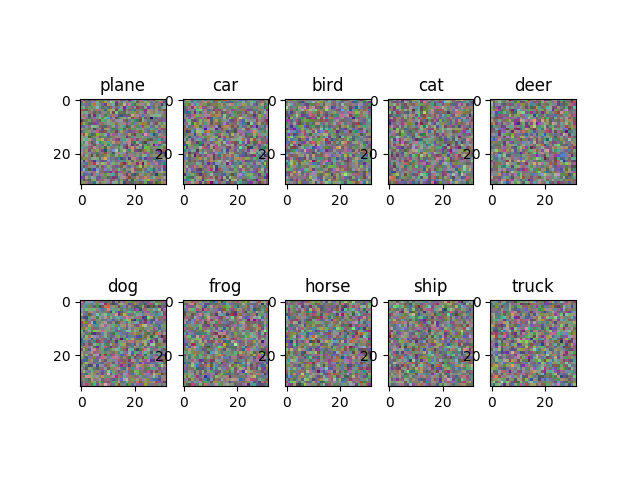
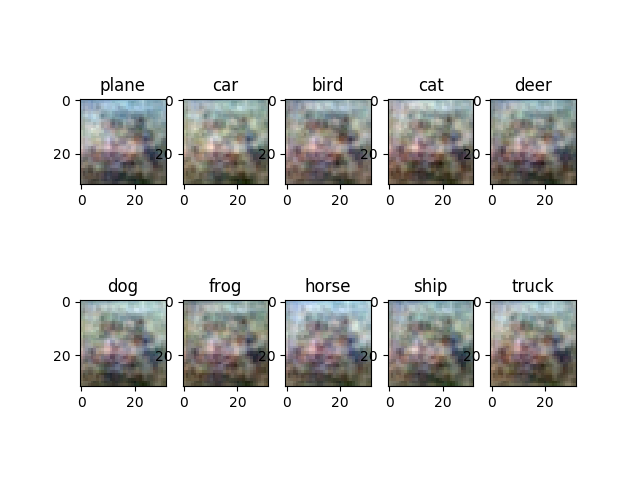
almost completed

Changed region(s): [[0.125, 0.1875, 0.9062, 0.4062], [0.125, 0.625, 0.9062, 0.8125]]

diff --git a/softmax.py b/softmax.py
@@ -46,7 +46,7 @@ class Softmax (object):
         #############################################################################
         #Calculating loss for softmax
         #calculate the score matrix
-        num_train = x.shape[0]
+        N = x.shape[0]
         s =x.dot(self.W)
         # calculating s-max(s)
         s_ = s-np.max(s, axis=1, keepdims= True)
@@ -54,11 +54,15 @@ class Softmax (object):
         # calculating base
         sum_f = np.sum(exp_s_, axis=1, keepdims=True)
         # calculating probability of incorrect label by dividing by base
-        p_yi = exp_s_[np.arange(num_train),list(y)]/sum_f
+        p_yi = exp_s_[np.arange(N),y]/sum_f
         # Calculating loss by applying log over the probability
         loss_i = - np.log(p_yi)
         #keep as column vector
-        loss = loss_i + 0.5* reg * np.sum(self.W * self.W)
+        loss = np.sum(loss_i)/N
+        ds = (exp_s_ >0).astype(int)
+        ds[np.arange(x.shape[0]),y] += -1
+        dW = (1/x.shape[0]) * (x.T).dot(ds)
+        dW = dW + (2* reg* self.W)
         pass
         #############################################################################
         #                          END OF YOUR CODE                                 #
@@ -114,7 +118,6 @@ class Softmax (object):
             #########################################################################
             #                       END OF YOUR CODE                                #
             #########################################################################
-
             # Print loss for every 100 iterations
             if verbose and i % 100 == 0 and len(lossHistory) is not 0:
                 print ('Loop {0} loss {1}'.format(i, lossHistory[i]))
@@ -136,9 +139,8 @@ class Softmax (object):
         # TODO: 5 points                                                          #
         # -  Store the predict output in yPred                                    #
         ###########################################################################
-
-
-
+        s =x.dot(self.W)
+        yPred = np.argmax(s, axis=1)
         pass
         ###########################################################################
         #                           END OF YOUR CODE                              #
@@ -152,9 +154,10 @@ class Softmax (object):
         # TODO: 5 points                                                          #
         # -  Calculate accuracy of the predict value and store to acc variable    #
         ###########################################################################
-
-
-
+        yPred = self.predict(x)
+        acc = np.mean(y == yPred)*100
+        print(yPred[:40])
+        print(y[:40])
         pass
         ###########################################################################
         #                           END OF YOUR CODE                              #

diff --git a/svm.py b/svm.py
@@ -45,7 +45,6 @@ class Svm (object):
         # Bonus:                                                                    #
         # - +2 points if done without loop                                          #
         #############################################################################
-
         s = x.dot(self.W)
         s_yi = s[np.arange(x.shape[0]),y]
         delta = s- s_yi[:,np.newaxis]+1
@@ -54,9 +53,8 @@ class Svm (object):
         loss = np.sum(loss_i)/x.shape[0]
         ds = (delta >0).astype(int)
         ds[np.arange(x.shape[0]),y] =np.sum(ds,axis=1)-ds[np.arange(x.shape[0]),y]
-        dW = (1/y.shape[0]) * (np.transpose(x)).dot(ds)
+        dW = (1/x.shape[0]) * (x.T).dot(ds)
         dW = dW + (2* reg* self.W)
-        return loss, dW
         pass
         #############################################################################
         #                          END OF YOUR CODE                                 #
@@ -132,9 +130,8 @@ class Svm (object):
         # TODO: 5 points                                                          #
         # -  Store the predict output in yPred                                    #
         ###########################################################################
-
-
-
+        s = x.dot(self.W)
+        yPred = np.argmax(s, axis=1)
         pass
         ###########################################################################
         #                           END OF YOUR CODE                              #
@@ -148,9 +145,10 @@ class Svm (object):
         # TODO: 5 points                                                          #
         # -  Calculate accuracy of the predict value and store to acc variable    #
         ###########################################################################
-
-
-
+        yPred = self.predict(x)
+        print(yPred[:40])
+        print(y[:40])
+        acc = np.mean(y == yPred)*100
         pass
         ###########################################################################
         #                           END OF YOUR CODE                              #
